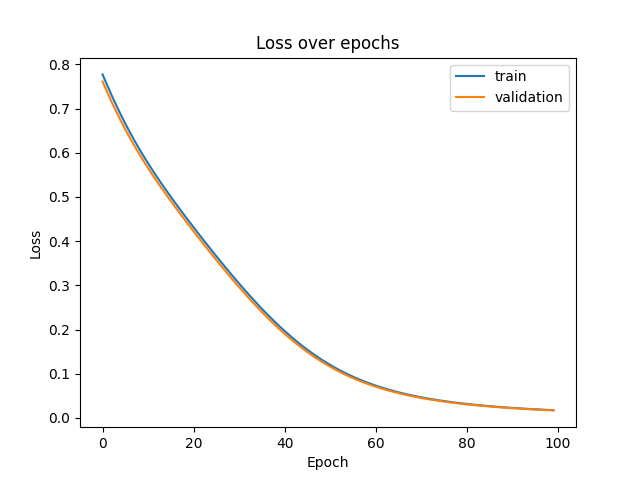
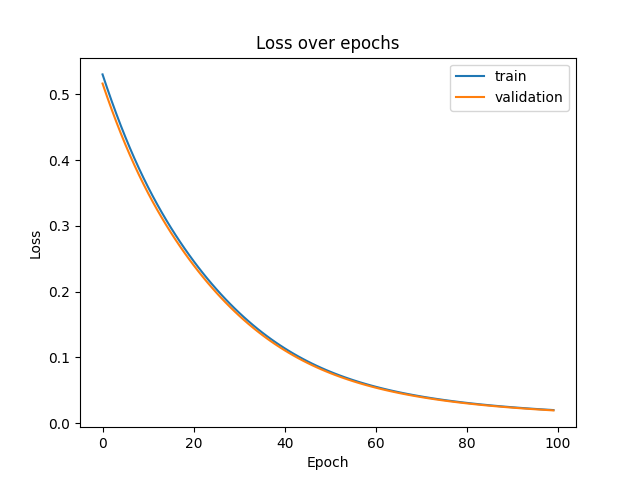
Refactored training

diff --git a/reactome_gnn/utils.py b/reactome_gnn/utils.py
@@ -55,7 +55,7 @@ def save_to_disk(graph, save_dir):
     pickle.dump(graph.graph_nx, open(save_path, 'wb'))
 
 
-def create_toy_study_with_markers(p_value=0.05, save_to_disk=False, 
+def create_toy_study_with_markers(p_value=0.05, save=False, 
                                   data_dir='demo/data/example'):
     """Create networks for the predefined set of markers.
 
@@ -69,7 +69,7 @@ def create_toy_study_with_markers(p_value=0.05, save_to_disk=False,
     ----------
     p_value : float
         Threshold for p-value to determine significant pathways
-    save_to_disk : bool, optional
+    save : bool, optional
         Whether to save the created networks to the disk, default: False
     data_dir : str, optional
         Relative path to where the data is stored
@@ -89,7 +89,7 @@ def create_toy_study_with_markers(p_value=0.05, save_to_disk=False,
     graph_C = create_network_from_markers(study_C, p_value, 'study_C')
     graph_D = create_network_from_markers(study_D, p_value, 'study_D')
 
-    if save_to_disk:
+    if save:
         save_dir = os.path.join(data_dir, 'raw')
         save_to_disk(graph_A, save_dir)
         save_to_disk(graph_B, save_dir)
@@ -99,7 +99,7 @@ def create_toy_study_with_markers(p_value=0.05, save_to_disk=False,
     return graph_A, graph_B, graph_C, graph_D
 
 
-def create_toy_study_with_names(save_to_disk=False, data_dir='demo/data/example'):
+def create_toy_study_with_names(save=False, data_dir='demo/data/example'):
     """Create networks for the predefined set of pathway names.
 
     Given the four sets of pathway names (A, B, C, D), create four
@@ -110,7 +110,7 @@ def create_toy_study_with_names(save_to_disk=False, data_dir='demo/data/example'
 
     Parameters
     ----------
-    save_to_disk : bool, optional
+    save : bool, optional
         Whether to save the created networks to the disk, default: False
     data_dir : str, optional
         Relative path to where the data is stored
@@ -138,23 +138,29 @@ def create_toy_study_with_names(save_to_disk=False, data_dir='demo/data/example'
                "Degradation of beta-catenin by the destruction complex",
                "TCF dependent signaling in response to WNT",
                "Beta-catenin independent WNT signaling"]
+    study_E = ["DNA Repair", "DNA Damage Bypass",
+               "Recognition of DNA damage by PCNA-containing replication complex",
+               "Translesion synthesis by Y family DNA polymerases bypasses lesions on DNA template",
+               "Translesion synthesis by REV1", "Translesion synthesis by POLK"]
     
     graph_A = create_network_from_names(study_A, 'study_A')
     graph_B = create_network_from_names(study_B, 'study_B')
     graph_C = create_network_from_names(study_C, 'study_C')
     graph_D = create_network_from_names(study_D, 'study_D')
+    graph_E = create_network_from_names(study_E, 'study_E')
 
-    if save_to_disk:
+    if save:
         save_dir = os.path.join(data_dir, 'raw')
         save_to_disk(graph_A, save_dir)
         save_to_disk(graph_B, save_dir)
         save_to_disk(graph_C, save_dir)
         save_to_disk(graph_D, save_dir)
+        save_to_disk(graph_E, save_dir)
 
-    return graph_A, graph_B, graph_C, graph_D
+    return graph_A, graph_B, graph_C, graph_D, graph_E
 
 
-def create_embeddings(dim_latent=8, num_layers=2, load_model=True, save_to_disk=False,
+def create_embeddings(dim_latent=8, num_layers=2, load_model=True, save=False,
                       data_dir='demo/data/example'):
     """Create embeddings for all the graphs stored on the disk.
 
@@ -173,7 +179,7 @@ def create_embeddings(dim_latent=8, num_layers=2, load_model=True, save_to_disk=
         Number of GCN layers in the GCNModel, deafult 1
     load_model : bool, optional
         Whether to load an old model or create a new one
-    save_to_disk : bool, optional
+    save : bool, optional
         Whether to save the created networks to the disk, default: False
     data_dir : str, optional
         Relative path to where the data is stored
@@ -201,7 +207,7 @@ def create_embeddings(dim_latent=8, num_layers=2, load_model=True, save_to_disk=
         graph, name = data[idx]
         embedding = net(graph).detach()
         embedding_dict[name] = embedding
-        if save_to_disk:
+        if save:
             emb_path = os.path.join(emb_dir, f'{name[:-4]}.pth')
             torch.save(embedding, emb_path)
     

diff --git a/reactome_gnn/train.py b/reactome_gnn/train.py
@@ -9,6 +9,7 @@ from dgl.batch import _batch_feat_dicts, batch
 
 import matplotlib.pyplot as plt
 import numpy as np
+from sklearn import metrics
 import torch
 import torch.nn as nn
 import torch.nn.functional as F
@@ -19,9 +20,10 @@ from dgl.dataloading import GraphDataLoader
 import dataset
 import model
 import utils
+import hyperparameters
 
 
-def draw_loss_plot(train_loss, valid_loss, timestamp):
+def draw_loss_plot(train_loss, valid_loss, name):
     """Draw and save plot of train and validation loss over epochs.
     Parameters
     ----------
@@ -29,8 +31,9 @@ def draw_loss_plot(train_loss, valid_loss, timestamp):
         List of training loss for each epoch
     valid_loss : list
         List of validation loss for each epoch
-    timestamp : str
-        A timestep used for naming the file
+    name : str
+        A name used for the file
+
     Returns
     -------
     None
@@ -42,24 +45,48 @@ def draw_loss_plot(train_loss, valid_loss, timestamp):
     plt.xlabel('Epoch')
     plt.ylabel('Loss')
     plt.legend()
-    plt.savefig(f'loss_{timestamp}.png')
+    plt.savefig(f'loss_{name}.png')
     plt.show()
 
-def train():
-    path = ''
-    dim_latent = 8
-    num_layers = 1
-    num_epochs = 100
-    learning_rate = 1e-3
-    device = 'cpu'
-    # model_path = os.path.abspath(os.path.join(data_dir, 'models/model.pth'))
-    net = model.GCNModel(dim_latent, num_layers, train=True)
-    ds = dataset.PathwayDataset('demo/data/example')
-    ds_train, ds_valid = [ds[0], ds[1], ds[2]], [ds[3]]
-    dl_train = GraphDataLoader(ds_train, batch_size=1, shuffle=True)
-    dl_valid = GraphDataLoader(ds_valid, batch_size=1, shuffle=False)
 
+def train(hyperparams=None, data_path='demo/data/example'):
+    """Train a network which will produce the embeddings.
+    Parameters
+    ----------
+    hyperparams : dict, optional
+        Dictionary with hyperparameters
+    data_path : str, optional
+        Relative path to where the data is stored
+
+    Returns
+    -------
+    None
+    """
+    if hyperparams is None:
+        hyperparams = hyperparameters.get_hyperparameters()
+
+    # Unpack hyperparameters
+    num_epochs = hyperparams['num_epochs']
+    dim_latent = hyperparams['dim_latent']
+    num_layers = hyperparams['num_layers']
+    learning_rate = hyperparams['lr']
+    batch_size = hyperparams['batch_size']
+    device = hyperparams['device']
+
+    model_path = f'demo/data/model_dim{dim_latent}_lay{num_layers}.pth'
+    
+    # Create datasets
+    ds = dataset.PathwayDataset(data_path)
+    ds_train, ds_valid = [ds[0], ds[1], ds[2]], [ds[3], ds[4]]
+    dl_train = GraphDataLoader(ds_train, batch_size=batch_size, shuffle=True)
+    dl_valid = GraphDataLoader(ds_valid, batch_size=batch_size, shuffle=False)
+
+    # Initialize networks and optimizer
+    net = model.GCNModel(dim_latent, num_layers, train=True).to(device)
     optimizer = optim.Adam(net.parameters(), lr=learning_rate)
+
+    best_net = model.GCNModel(dim_latent, num_layers, train=True)
+    best_net.load_state_dict(copy.deepcopy(net.state_dict()))
 
     loss_per_epoch_train, loss_per_epoch_valid = [], []
 
@@ -80,8 +107,11 @@ def train():
 
             # Plot loss
             loss_per_graph.append(loss.item())
+            
 
+        running_loss = np.array(loss_per_graph).mean()
         loss_per_epoch_train.append(np.array(loss_per_graph).mean())
+        print(f'Epoch: {epoch}\t\tTraining loss: {running_loss}')
         
         loss_per_graph = []
         net.eval()
@@ -92,10 +122,17 @@ def train():
             labels = graph.ndata['significance'].unsqueeze(-1)
             loss = F.binary_cross_entropy_with_logits(logits, labels)
             loss_per_graph.append(loss.item())
-
-        loss_per_epoch_valid.append(np.array(loss_per_graph).mean())
+            
+        running_loss = np.array(loss_per_graph).mean()
+        if len(loss_per_epoch_valid) > 0 and running_loss < min(loss_per_epoch_valid):
+            best_net.load_state_dict(copy.deepcopy(net.state_dict()))
+        loss_per_epoch_valid.append(running_loss)
+        print(f'Epoch: {epoch}\t\tValidation loss: {running_loss}')
 
     draw_loss_plot(loss_per_epoch_train, loss_per_epoch_valid, 'plot')
+
+    torch.save(best_net.state_dict(), model_path)
+
 
 if __name__ == '__main__':
     train()

diff --git a/reactome_gnn/model.py b/reactome_gnn/model.py
@@ -20,8 +20,7 @@ class GCNModel(nn.Module):
             Number of GCN layers in the GCNModel, deafult 1
         """
         super().__init__()
-        self.embedder = nn.Embedding(2, 2)
-        self.linear = nn.Linear(3, dim_latent)
+        self.linear = nn.Linear(1, dim_latent)
         self.conv_0 = GraphConv(dim_latent, dim_latent, allow_zero_in_degree=True)
         self.relu = nn.LeakyReLU()
         self.layers = nn.ModuleList([GraphConv(dim_latent, dim_latent, allow_zero_in_degree=True)
@@ -30,11 +29,8 @@ class GCNModel(nn.Module):
 
     def forward(self, graph):
         """Return the embedding of a graph."""
-        significance = graph.ndata['significance'].int()
-        significance = self.embedder(significance)
         weights = graph.ndata['weight'].unsqueeze(-1)
-        features = torch.cat((weights, significance), dim=1)
-        features = self.linear(features)
+        features = self.linear(weights)
         graph = dgl.add_self_loop(graph)
         embedding = self.conv_0(graph, features)
         for conv in self.layers:

diff --git a/reactome_gnn/hyperparameters.py b/reactome_gnn/hyperparameters.py
@@ -1,0 +1,12 @@
+import torch
+
+
+def get_hyperparameters():
+    return {
+        'num_epochs': 100,
+        'dim_latent': 8,
+        'num_layers': 1,
+        'batch_size': 1,
+        'device': 'cuda' if torch.cuda.is_available() else 'cpu',
+        'lr': 1e-3,
+    }
